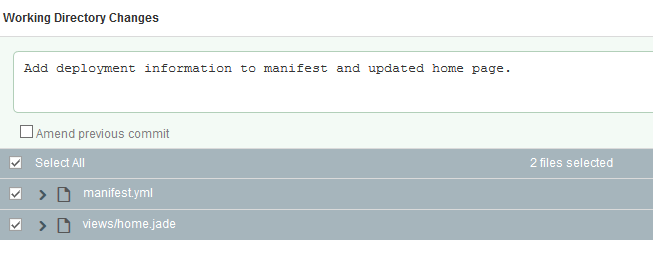
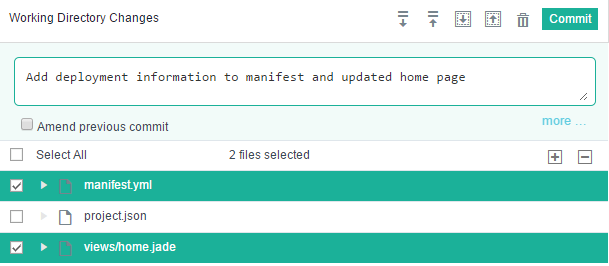
Updating GitWeb for new look 'n' feel. Task 34681.

diff --git a/tutorials/gitweb/index.md b/tutorials/gitweb/index.md
@@ -1,6 +1,6 @@
 #Developing with Git in the Bluemix DevOps Services Web IDE
 
-Last modified: 12 February 2015
+Last modified: 13 February 2015
 
 If you want to learn more about managing your Git repository, an open source code management system, with the IBM® Bluemix&trade; DevOps Services Web IDE, complete this tutorial. The tutorial doesn't cover all of the possible Git commands in the DevOps Services Web IDE, but you can practice creating a change on a separate branch, testing the change, and adding the change to the master branch. If you need help with specific commands, [see the Git reference](/../docs/reference/git).  If you want to try to work locally by using the command line, [see Work locally with IBM DevOps Services projects and Git source control](../../docs/reference/gitclient).
 
@@ -19,7 +19,7 @@ If you want to learn more about managing your Git repository, an open source cod
 ---
 <a name='before_you_begin'></a>
 ##Before you begin
-  * [Register for Bluemix DevOps Services](https://hub.jazz.net) 
+  * [Register for Bluemix DevOps Services](https://hub.jazz.net)
   * [Register for a free trial of IBM&reg; Bluemix&trade;](https://ace.ng.bluemix.net/)
 
 ---
@@ -31,10 +31,10 @@ You complete this tutorial by copying, or forking, a project. Then, you modify t
 
 1. Click **FORK PROJECT**.
 
-1. In the window that opens, name the project `YummyRation` and review the contents of the window.  Make sure that the **Deploy to Bluemix** check box is selected.
+1. In the window that opens, name the project `YummyRation` and review the contents of the window.  Make sure that the **Make this a Bluemix Project** check box is selected.
 
     ![Options while forking project][2]
-1. Click **Save**. The new project's Overview page is shown after a moment.
+1. Click **CREATE**. The new project's Overview page is shown after a moment.
 
 ---
 <a name='create_a_branch'></a>
@@ -80,8 +80,11 @@ To see the changes that you make to your code, create a Bluemix app and deploy t
 
 6. Click **SAVE**.
 
-7. Click the **Play** button. After the deployment succeeds, click the **Open URL** button to see the YummyRation project page.
+7. In the Run Bar, click the Play icon. After the deployment succeeds, click the **Open the application URL** button to see the YummyRation project page.
+![Play button in the Run Bar][34]
 ![Open URL button in the Run Bar][31]
+
+Leave this page open; you'll need it in a moment.
 
 ---
 <a name='change_and_test_the_code'></a>
@@ -90,19 +93,19 @@ To see the changes that you make to your code, create a Bluemix app and deploy t
 1. Return to your YummyRation project page on Bluemix DevOps Services.
 
 1. Near the run bar, click the **Live Edit** button. Let the app deployment finish.
-  * Bluemix Live Sync allows you to quickly preview changes to Node.js applications (like the YummyRation app). When you update your static files with Live Sync turned on, you can refresh your web application's browser window to see those changes reflected seconds after you make them.
+  * Bluemix Live Sync allows you to quickly preview changes to Node.js applications in Live Edit mode. When you update your static files with Live Edit turned on, you can refresh your web application's browser window to see those changes reflected seconds after you make them. For more information on Bluemix Live Sync, [see the Bluemix Live Sync documentation][14].
 
 2. In the file explorer, next to `views`, click the **>** to expand the contents of the folder. Then, click **home.jade**.
 
-3. Locate the phrase "We deliver delicious fresh cooked food for your next dinner, cocktail, or party." Change it to "We deliver delicious, freshly cooked food for your next dinner or gathering."
+3. Locate the phrase "We deliver delicious fresh cooked food for your next dinner, cocktail, or party." Change it to `We deliver delicious, freshly cooked food for your next dinner or gathering.`
 ![Changed Fisherman's Platter code block][5]
 
-4. In the Run Bar, click the **Open URL** button. You'll see the updated phrase on the page that opens.
+4. Switch to the browser window where you have the YummyRation page open. Refresh it to see your change.
 ![Runbar at status green with Upen URL button highlighted][31]
 
 ![New subheader][7]
 
-That looks better! Click the **Live Edit** button again to turn Bluemix Live Sync off. 
+That looks better! Click the **Live Edit** button again to stop using Bluemix Live Sync.
 
 ---
 <a name='deliver_a_change_to_the_repository'></a>
@@ -113,9 +116,9 @@ You save your changes to your Bluemix DevOps Services project.  Because this pro
 
 1. Click **Git Repository**.
 
-1. In the Working Directory Changes panel, select the **Select All** check box.
+1. In the Working Directory Changes panel, select the check boxes next to `manifest.yml` and `views/home.jade`.
 
-1. In the **Enter the commit message** field, enter a descriptive commit message, such as `Add deployment information to manifest and updated home page`.
+1. In the **Enter the commit message** field, enter a descriptive commit message, like `Add deployment information to manifest and updated home page`.
 ![Sample commit message][6]
 
 1. Click **COMMIT** to commit your changes to your local repository.
@@ -135,15 +138,15 @@ To rebase, you must compare the contents of one branch to another by modifying t
 1. Click the **REFERENCE field**.
 
 1. Next to local, click __>__ to expand the list of local branches.
-![Expand local pane][13]
 
 1. Next to the local master branch, click the **Checkout** icon.
+![Checkout master branch][13]
 
-1. Click the **REFERENCE field**.
+1. Click the **REFERENCE field** again.
 
 1. Next to local, click __>__ to expand the list of local branches again.
 
-1. Compare the contents of the master and testbranch branches by clicking **testbranch**.
+1. Compare the contents of the local master and testbranch branches by clicking the **testbranch** row.
 ![Comparing testbranch to master][12]
 
 1. Click the **Rebase** icon <img src="images/rebase.png"  align="bottom" style="display: inline; margin: 0px; border-style: none; margin-bottom: -10px;">.
@@ -178,6 +181,7 @@ You forked a project and manually deployed to a Bluemix app. You made a branch, 
 [11]: images/testbranchreference.png
 [12]: images/mastertotestbranch.png
 [13]: images/arrowbylocal.png
+[14]: https://www.ng.bluemix.net/docs/#manageapps/bluemixlive.html
 [18]: https://developer.ibm.com/answers/questions/?community=devops-services (Bluemix DevOps Services forum)
 [19]: mailto:hub%40jazz.net
 [20]: /docs
@@ -186,4 +190,4 @@ You forked a project and manually deployed to a Bluemix app. You made a branch, 
 [31]: images/runbar_url.png
 [32]: images/runbar_play.png
 [33]: images/launch-configs-callout.png
-
+[34]: images/runbar_click_play.png
